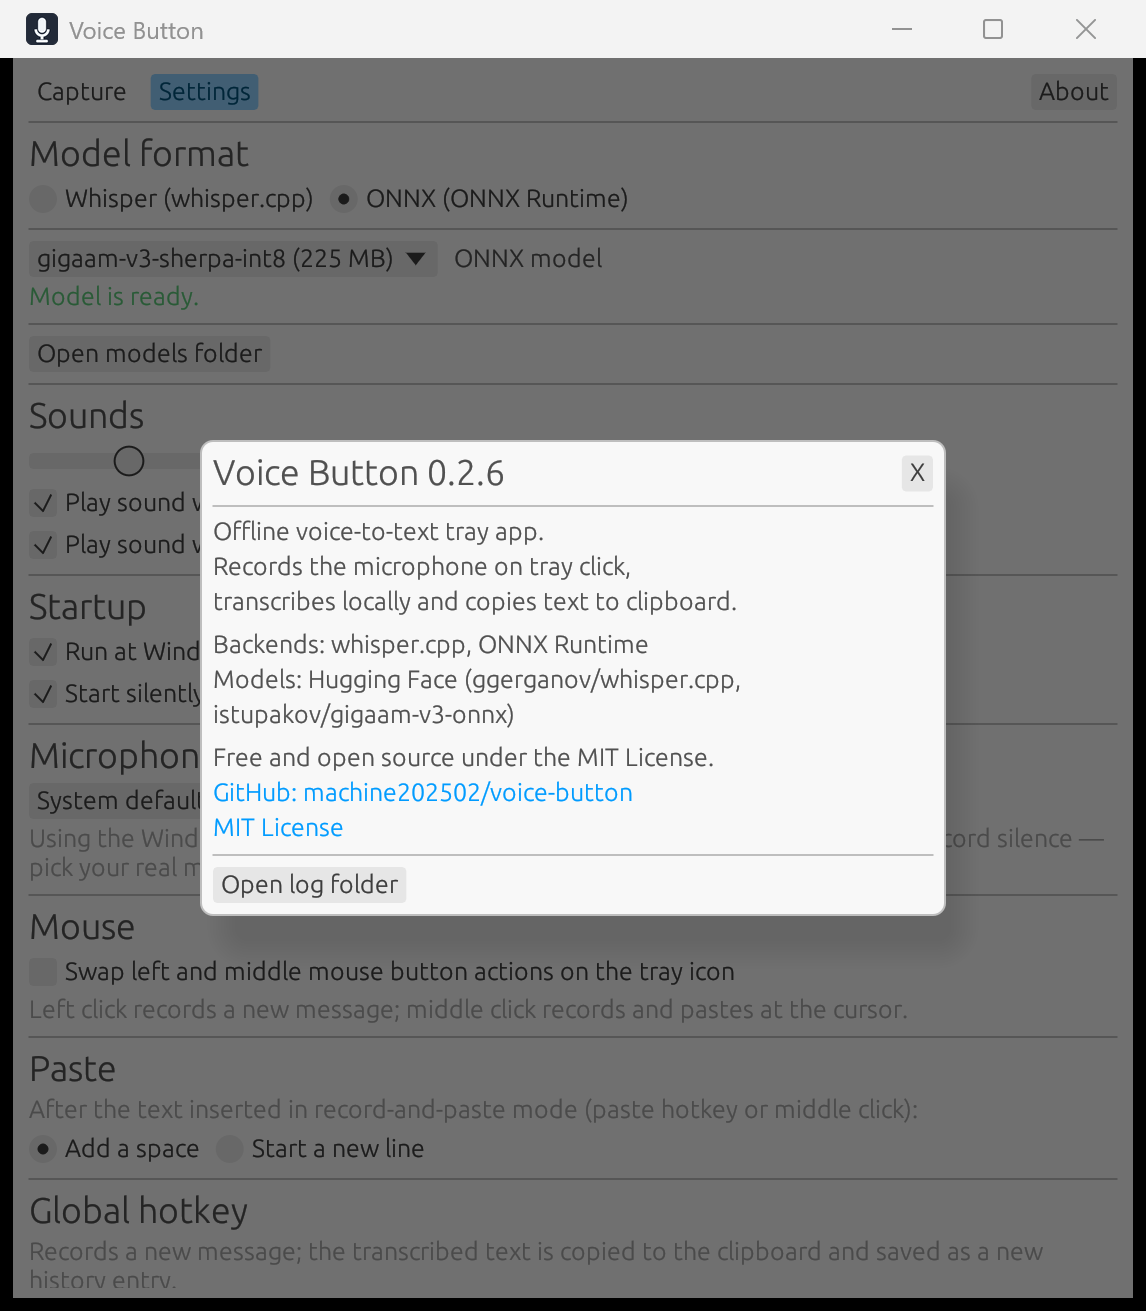
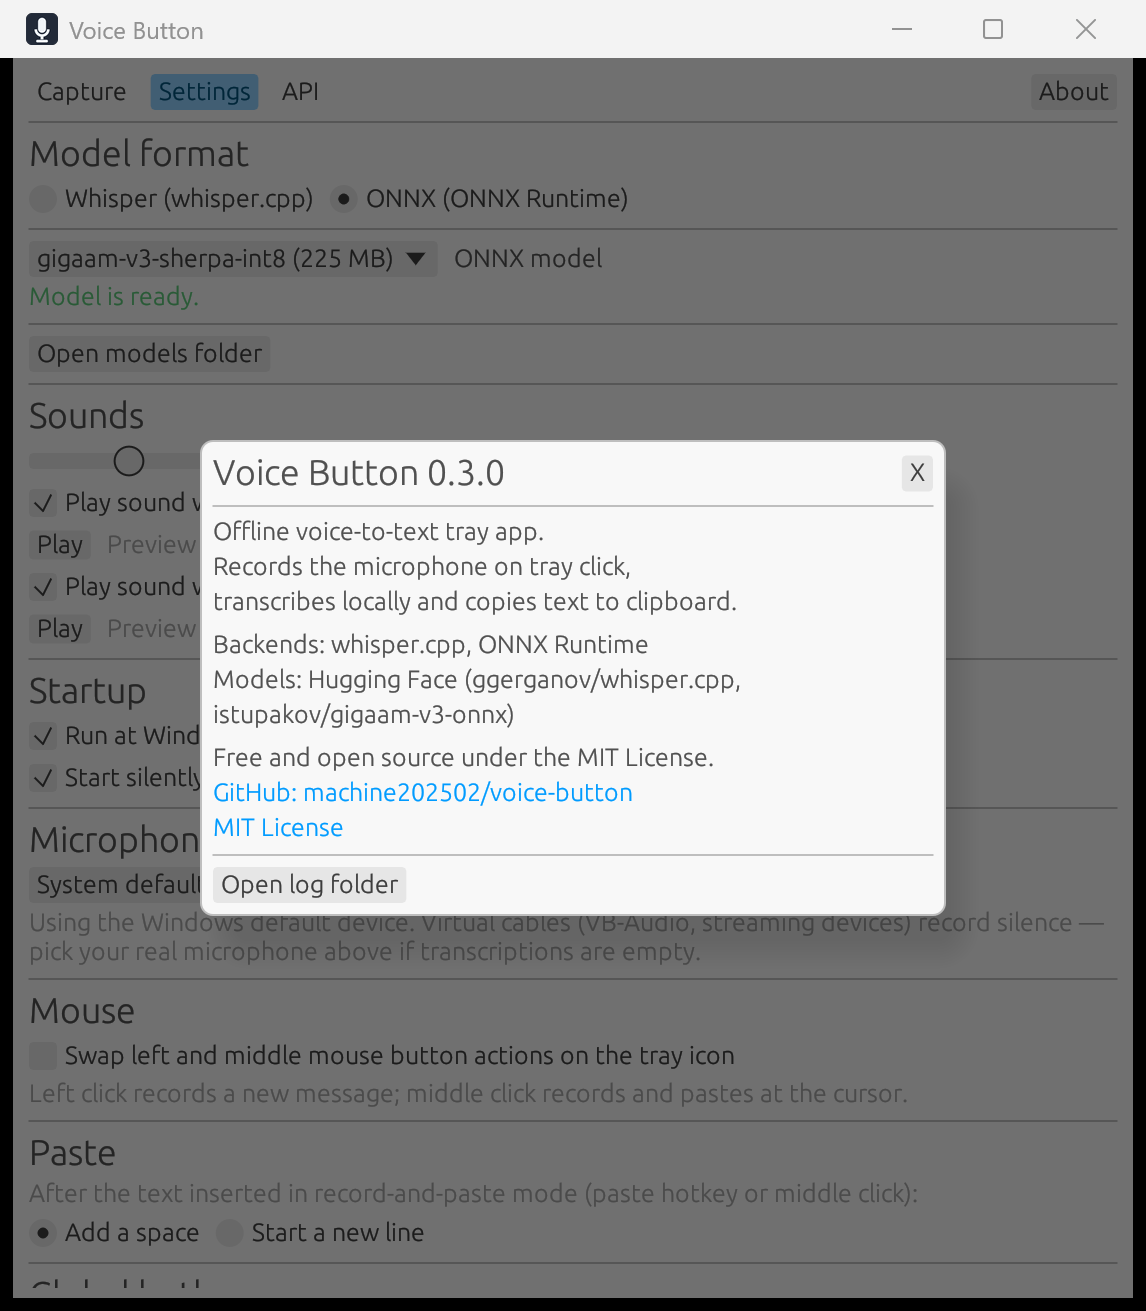
Refresh UI snapshots and site screenshots for 0.3.0

diff --git a/site/index.html b/site/index.html
@@ -41,6 +41,7 @@
     <nav class="menu" aria-label="Навигация">
       <a href="#how">Как это работает</a>
       <a href="#capture">Возможности</a>
+      <a href="#api">API</a>
       <a href="#download">Скачать</a>
     </nav>
     <nav class="langs" aria-label="Язык">
@@ -111,6 +112,21 @@
           <li>Прогресс скачивания и отмена</li>
           <li>Автоопределение языка у поддерживающих моделей</li>
           <li>Ротационные логи с кнопкой открытия папки</li>
+        </ul>
+      </div>
+    </section>
+
+    <section id="api" class="section settings-section api-section">
+      <div class="settings-shot"><img src="assets/api.png" alt="Вкладка API: включение локального сервера, хост и порт" loading="lazy"></div>
+      <div class="settings-copy">
+        <p class="kicker">LOCAL API</p>
+        <h2>Ваш голос — внутри любого приложения.</h2>
+        <p>Включите локальный HTTP-сервер и присылайте в него звук из редактора, скрипта или страницы. Приложение вернёт живой и финальный текст, а микрофон компьютера не понадобится — звук приносит клиент.</p>
+        <ul>
+          <li>Поток PCM16: живая транскрипция и готовый текст</li>
+          <li>Модель на одну сессию, не меняя ваших настроек</li>
+          <li>GET /api/help — полный контракт для агентов и интеграций</li>
+          <li>История показывает, кто начал запись: вы или сервер</li>
         </ul>
       </div>
     </section>

diff --git a/site/en/index.html b/site/en/index.html
@@ -41,6 +41,7 @@
     <nav class="menu" aria-label="Navigation">
       <a href="#how">How it works</a>
       <a href="#capture">Features</a>
+      <a href="#api">API</a>
       <a href="#download">Download</a>
     </nav>
     <nav class="langs" aria-label="Language">
@@ -111,6 +112,21 @@
           <li>Download progress and cancellation</li>
           <li>Automatic language detection where the model supports it</li>
           <li>Rotating logs with a button that opens the folder</li>
+        </ul>
+      </div>
+    </section>
+
+    <section id="api" class="section settings-section api-section">
+      <div class="settings-shot"><img src="../assets/api.png" alt="Voice Button API tab: server switch, host and port" loading="lazy"></div>
+      <div class="settings-copy">
+        <p class="kicker">LOCAL API</p>
+        <h2>Your voice inside any application.</h2>
+        <p>Switch on the local HTTP server and stream audio into it from an editor, a script or a page. The app returns live and final text, and the computer's microphone is not needed — the client brings the sound.</p>
+        <ul>
+          <li>PCM16 stream: live transcription and the final text</li>
+          <li>Per-session model override that leaves your settings alone</li>
+          <li>GET /api/help — the whole contract for agents and integrations</li>
+          <li>History shows who started the recording: you or the server</li>
         </ul>
       </div>
     </section>

diff --git a/site/styles.css b/site/styles.css
@@ -125,6 +125,7 @@ h2 { font-size: clamp(36px, 5vw, 62px); line-height: 1.08; letter-spacing: -.045
 .settings-section { display: grid; grid-template-columns: 1fr 1fr; align-items: center; gap: clamp(45px, 7vw, 90px); border-top: 1px solid var(--line); }
 .settings-shot { background: var(--panel); padding: 22px; border-radius: var(--radius); transform: rotate(-1.5deg); }
 .settings-shot img { display: block; width: 100%; max-height: 590px; object-fit: contain; object-position: top; border-radius: 12px; }
+.api-section .settings-shot { transform: rotate(1.2deg); }
 .settings-copy ul { list-style: none; margin-top: 28px; }
 .settings-copy li { padding: 12px 0; border-bottom: 1px solid var(--line); color: #d3dccb; }
 .settings-copy li::before { content: "+"; color: var(--lime); font-weight: 800; margin-right: 13px; }

diff --git a/tests/snapshot.rs b/tests/snapshot.rs
@@ -27,6 +27,7 @@ fn ui_snapshots_render() {
 
     for name in [
         "settings.png",
+        "api.png",
         "history.png",
         "history-expanded.png",
         "about.png",
